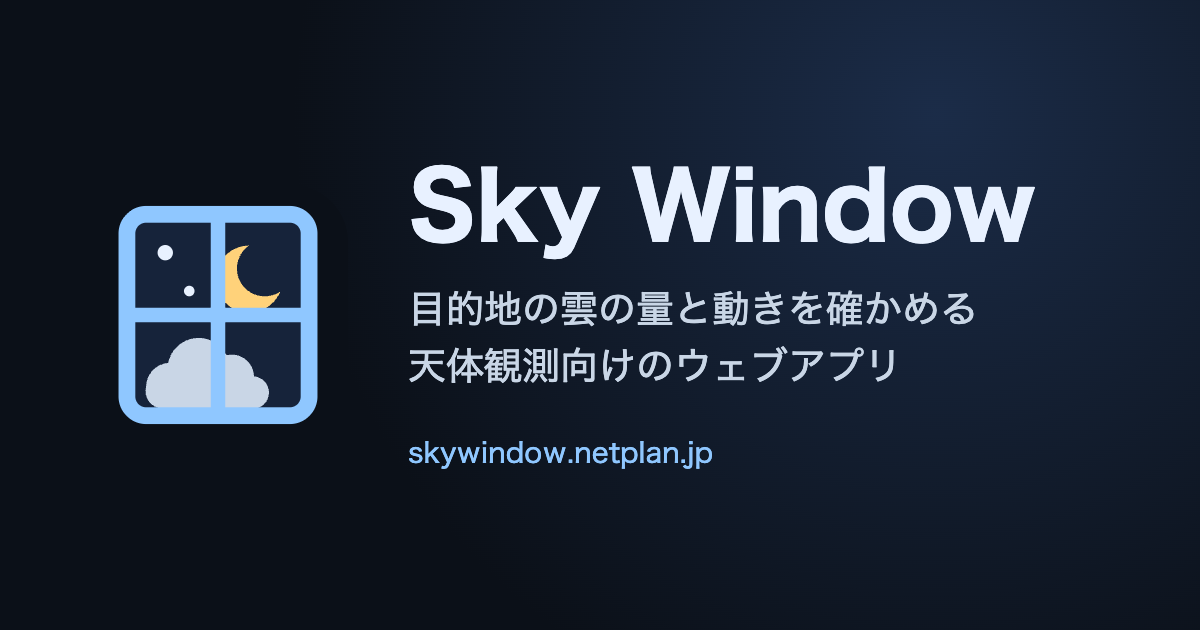
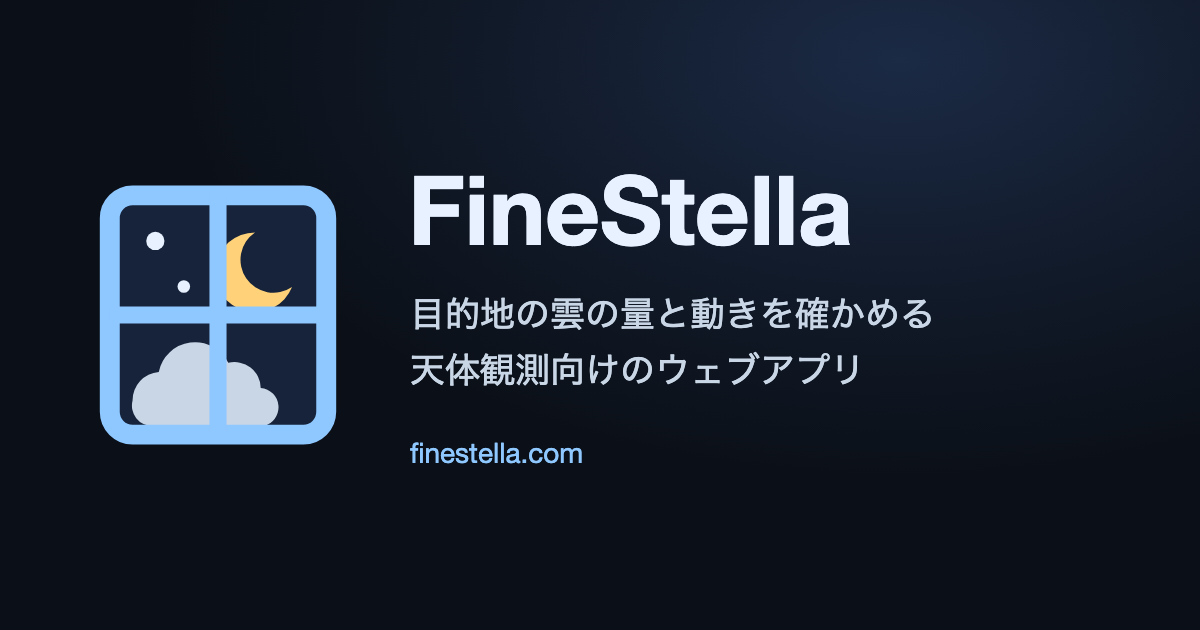
名前を Sky Window から FineStella に変え、URL を finestella.com に移す (#46)
既存のアプリと名前が重なったため改名する。表記、共有用のプレビュー画像、
マニフェスト、テスト、ドキュメントのリンクを新しい名前とリポジトリ名に合わせる。
旧 URL は Xserver の .htaccess で 301 転送する。保存領域はドメインごとに
分かれるので、旧 URL で保存した初期位置は引き継げないことを CHANGELOG に書く。

diff --git a/index.html b/index.html
@@ -3,7 +3,7 @@
 <head>
   <meta charset="utf-8">
   <meta name="viewport" content="width=device-width, initial-scale=1">
-  <title>Sky Window</title>
+  <title>FineStella</title>
   <meta name="description" content="目的地の雲の量と動きを確かめる、天体観測向けのウェブアプリ。下層・中層・上層の雲量と、周辺の雲の流れを3日先まで地図で確認できます。">
   <meta name="theme-color" content="#0b1018">
   <link rel="icon" href="favicon.ico" sizes="32x32">
@@ -12,14 +12,14 @@
   <link rel="manifest" href="manifest.webmanifest">
   <!-- SNS やチャットで URL を共有したときのプレビュー -->
   <meta property="og:type" content="website">
-  <meta property="og:site_name" content="Sky Window">
-  <meta property="og:title" content="Sky Window">
+  <meta property="og:site_name" content="FineStella">
+  <meta property="og:title" content="FineStella">
   <meta property="og:description" content="目的地の雲の量と動きを確かめる、天体観測向けのウェブアプリ">
-  <meta property="og:url" content="https://skywindow.netplan.jp/">
-  <meta property="og:image" content="https://skywindow.netplan.jp/assets/og-image.png">
+  <meta property="og:url" content="https://finestella.com/">
+  <meta property="og:image" content="https://finestella.com/assets/og-image.png">
   <meta property="og:image:width" content="1200">
   <meta property="og:image:height" content="630">
-  <meta property="og:image:alt" content="Sky Window のアイコンと「目的地の雲の量と動きを確かめる天体観測向けのウェブアプリ」の文字">
+  <meta property="og:image:alt" content="FineStella のアイコンと「目的地の雲の量と動きを確かめる天体観測向けのウェブアプリ」の文字">
   <meta property="og:locale" content="ja_JP">
   <meta name="twitter:card" content="summary_large_image">
   <link rel="stylesheet" href="https://unpkg.com/leaflet@1.9.4/dist/leaflet.css"
@@ -85,8 +85,8 @@
         <p>Weather data by <a href="https://open-meteo.com/" target="_blank" rel="noopener">Open-Meteo.com</a>(<a href="https://creativecommons.org/licenses/by/4.0/" target="_blank" rel="noopener">CC BY 4.0</a>)。雲の分布と動きは1時間ごとの予報を補間して表示しています。</p>
         <p>地名検索:<a href="https://maps.gsi.go.jp/" target="_blank" rel="noopener">国土地理院</a>。海外の地名は Location data based on <a href="https://www.geonames.org/" target="_blank" rel="noopener">GeoNames</a>(<a href="https://creativecommons.org/licenses/by/4.0/" target="_blank" rel="noopener">CC BY 4.0</a>)</p>
         <p>背景地図:<a href="https://maps.gsi.go.jp/development/ichiran.html" target="_blank" rel="noopener">地理院タイル</a>(淡色地図)の色を反転するなど加工して作成。日本周辺以外の海岸線:Shoreline data is derived from: United States. National Imagery and Mapping Agency.</p>
-        <p class="support">If you like Sky Window, you can support my work here!<br>☕ <a href="https://buymeacoffee.com/netplan" target="_blank" rel="noopener">Buy me a coffee</a></p>
-        <p class="version">Sky Window v0.4.0 ・ <a href="https://github.com/kazweda/sky-window/blob/main/CHANGELOG.md" target="_blank" rel="noopener">更新履歴</a></p>
+        <p class="support">If you like FineStella, you can support my work here!<br>☕ <a href="https://buymeacoffee.com/netplan" target="_blank" rel="noopener">Buy me a coffee</a></p>
+        <p class="version">FineStella v0.4.0 ・ <a href="https://github.com/kazweda/finestella/blob/main/CHANGELOG.md" target="_blank" rel="noopener">更新履歴</a></p>
       </footer>
     </main>
   </div>

diff --git a/test/site.test.js b/test/site.test.js
@@ -42,6 +42,6 @@ test('robots.txt があり、配信でコピーされる', () => {
 
 test('共有のプレビュー画像は絶対 URL で、公開サイトの配信先を指す', () => {
   const image = (html.match(/<meta property="og:image" content="([^"]+)"/) || [])[1];
-  assert.equal(image, 'https://skywindow.netplan.jp/assets/og-image.png');
+  assert.equal(image, 'https://finestella.com/assets/og-image.png');
   assert.ok(fs.existsSync(path.join(root, 'assets/og-image.png')));
 });

diff --git a/app.js b/app.js
@@ -775,7 +775,7 @@
   // --- 初期位置 ---
   // 何も付けずに開いたときの地点を、このブラウザに保存する。
   // 保存できない環境(プライベートブラウズなど)では、ボタンを出さず野辺山で開く。
-  const HOME_KEY = 'sky-window:home';
+  const HOME_KEY = 'finestella:home';
   const storage = (() => {
     try {
       const s = window.localStorage;

diff --git a/test/version.test.js b/test/version.test.js
@@ -25,5 +25,5 @@ test('自前の JS と CSS は、すべて ?v=__BUILD__ 付きで読み込む', 
 });
 
 test('フッターに最新の版の番号を表示する', () => {
-  assert.match(html, new RegExp(`<p class="version">Sky Window v${latest.replace(/\./g, '\\.')} `));
+  assert.match(html, new RegExp(`<p class="version">FineStella v${latest.replace(/\./g, '\\.')} `));
 });

diff --git a/CHANGELOG.md b/CHANGELOG.md
@@ -1,12 +1,17 @@
 # 更新履歴
 
-Sky Window の利用者に関わる変更を記録します。書き方は [Keep a Changelog](https://keepachangelog.com/ja/1.1.0/) に沿い、バージョン番号は [セマンティック バージョニング](https://semver.org/lang/ja/) に従います。
+FineStella(旧名 Sky Window)の利用者に関わる変更を記録します。書き方は [Keep a Changelog](https://keepachangelog.com/ja/1.1.0/) に沿い、バージョン番号は [セマンティック バージョニング](https://semver.org/lang/ja/) に従います。
 
 ## [Unreleased]
 
 ### 追加
 
 - 訪問数・国・流入元を知るために、Cloudflare Web Analytics による匿名のアクセス計測を入れました。Cookie は使いません。URL に入る地点(緯度・経度・地名)は記録されません。
+
+### 変更
+
+- 名前を Sky Window から FineStella に変え、URL を https://finestella.com/ に移しました。旧 URL(https://skywindow.netplan.jp/)を開くと、地点や地名の指定を保ったまま新しい URL に転送されます。
+- URL が変わったため、旧 URL で保存した初期位置は引き継がれません。お手数ですが、新しい URL で「初期位置にする」をもう一度押してください。
 
 ## [0.4.0] - 2026-11-13
 
@@ -69,8 +74,8 @@ Sky Window の利用者に関わる変更を記録します。書き方は [Keep
 - Buy Me a Coffee へのリンクを置きました。
 - 画面の下部に、版の番号と更新履歴へのリンクを表示しました。
 
-[Unreleased]: https://github.com/kazweda/sky-window/compare/v0.4.0...HEAD
-[0.4.0]: https://github.com/kazweda/sky-window/releases/tag/v0.4.0
-[0.3.0]: https://github.com/kazweda/sky-window/releases/tag/v0.3.0
-[0.2.0]: https://github.com/kazweda/sky-window/releases/tag/v0.2.0
-[0.1.0]: https://github.com/kazweda/sky-window/releases/tag/v0.1.0
+[Unreleased]: https://github.com/kazweda/finestella/compare/v0.4.0...HEAD
+[0.4.0]: https://github.com/kazweda/finestella/releases/tag/v0.4.0
+[0.3.0]: https://github.com/kazweda/finestella/releases/tag/v0.3.0
+[0.2.0]: https://github.com/kazweda/finestella/releases/tag/v0.2.0
+[0.1.0]: https://github.com/kazweda/finestella/releases/tag/v0.1.0
